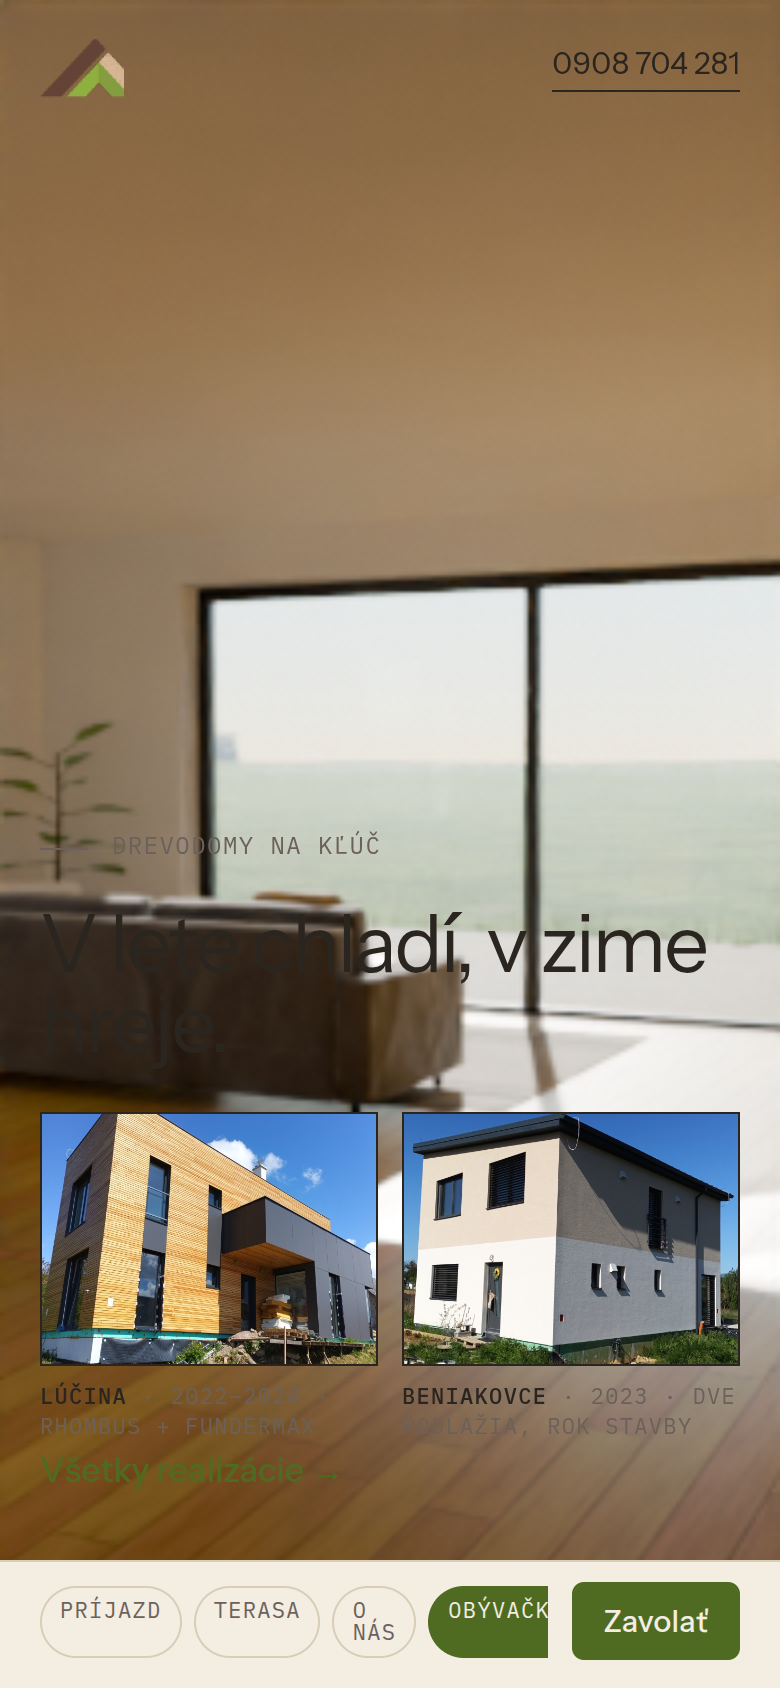
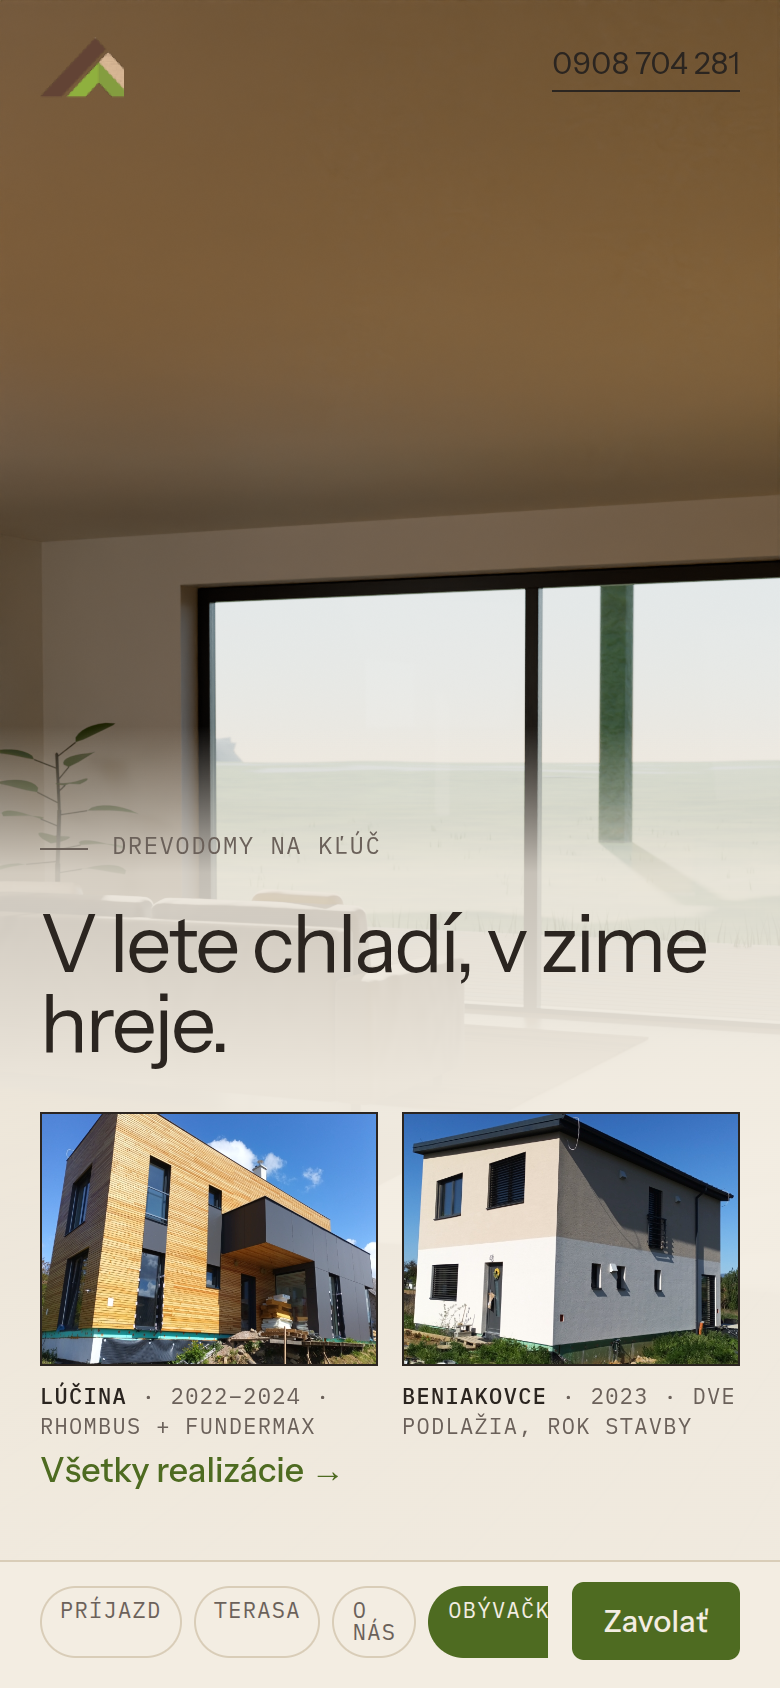
EcoDomček boards: the eight final plates, and the two technical boards fixed
Plates rendered at full board size (1440×900 / 780×1688), 384 samples,
512 for the interiors and the dusk act. Composited under the DOM layer with
`node clients/ecodomcek/boards/capture.mjs --render`.

Two boards failed the static-frame test on the first composite and are fixed:

- **04 Technológia** was unreadable: the sample stood on a grey concrete
  floor under a morning sky, and both the copy and the mono labels drowned
  in it. The sample now shares the dollhouse's studio — a warm gradient
  world, a bone floor — and the labels sit on paper chips. It is a spec
  sheet, not a building on a site.
- **07 Realizácie** carried two labels, one of which crossed the model and
  repeated the technology board. One label per board now, on a paper chip;
  the studio ground was warmed and lifted towards the page's own paper.

Also: annotations are clamped clear of the nav bar, and the mobile veil
starts higher so the eyebrow is not half-swallowed by its fade.

ART_DIRECTION §9.2 carries the static-frame verdict for all eight boards and
names the weakest surfaces rather than hiding them.

Validation: LOCAL — `npm run verify` green, headless renders and headless
captures only. No real device has seen these frames.

Claude-Session: https://claude.ai/code/session_01RoUfwoxLBTjqwMZz2oNVv8

diff --git a/clients/ecodomcek/boards/boards.css b/clients/ecodomcek/boards/boards.css
@@ -186,10 +186,25 @@ body[data-board="dusk"] .ann .dot, body[data-board="dusk"] .ann .line { backgrou
   content: ""; position: absolute; z-index: 0; inset: -44px -56px -44px -64px;
   background: linear-gradient(100deg, rgba(243,237,226,0) 0%, rgba(243,237,226,0.82) 16%, rgba(243,237,226,0.94) 46%, rgba(243,237,226,0.96) 100%);
 }
+[data-for="xray"] .cell::before {
+  content: ""; position: absolute; z-index: 0; inset: -44px -72px -44px -64px;
+  background: linear-gradient(280deg, rgba(243,237,226,0) 0%, rgba(243,237,226,0.80) 18%, rgba(243,237,226,0.93) 48%, rgba(243,237,226,0.96) 100%);
+}
+[data-for="xray"] .cell::after { display: none; }
+[data-for="xray"] .cell::after,
 [data-for="living"] .cell::after {
   content: ""; position: absolute; z-index: 0; left: -64px; top: -44px; bottom: -44px; width: 1px;
   background: linear-gradient(180deg, rgba(217,205,184,0) 0%, rgba(217,205,184,0.9) 22%, rgba(217,205,184,0.9) 78%, rgba(217,205,184,0) 100%);
 }
+
+/* The dollhouse and technology plates have no sky to write on: their labels get
+   the page's paper under them — the same veil device at label scale. The board
+   id lives on <body>, not on the section, because #annotations is its own host. */
+body[data-board="dollhouse"] .ann .lab,
+body[data-board="xray"] .ann .lab {
+  background: rgba(243,237,226,0.92); padding: 5px 9px 6px; margin: -5px 0 -6px;
+}
+body[data-board="xray"] .ann.col .lab { padding: 5px 9px 7px; }
 
 /* ---- mobile ---- */
 body[data-device="mobile"] { --edge: 20px; --gutter: 16px; }
@@ -215,8 +230,8 @@ body[data-device="mobile"] .cell .plates { margin-top: 24px; }
 body[data-device="mobile"] .cell .body { display: none; }
 body[data-device="mobile"] [data-for="hero"] .cell::before,
 body[data-device="mobile"] [data-for="living"] .cell::before {
-  content: ""; position: absolute; z-index: 0; inset: -30px -20px -140px -20px;
-  background: linear-gradient(180deg, rgba(243,237,226,0) 0%, rgba(243,237,226,0.88) 20%, rgba(243,237,226,0.97) 52%, rgba(243,237,226,0.99) 100%);
+  content: ""; position: absolute; z-index: 0; inset: -52px -20px -140px -20px;
+  background: linear-gradient(180deg, rgba(243,237,226,0) 0%, rgba(243,237,226,0.80) 14%, rgba(243,237,226,0.96) 34%, rgba(243,237,226,0.99) 100%);
 }
 body[data-device="mobile"] [data-for="living"] .cell::after { display: none; }
 body[data-device="mobile"] .cta-row { flex-direction: column; align-items: flex-start; gap: 12px; }

diff --git a/clients/ecodomcek/boards/scene.js b/clients/ecodomcek/boards/scene.js
@@ -69,6 +69,7 @@ if (mode === "render") {
     })
     for (const a of list.filter((a) => !a.col)) {
       const side = a.side === "auto" ? (a.x > w * 0.58 ? "left" : "right") : a.side
+      a.y = Math.max(a.y, device === "mobile" ? 148 : 96)  // never under the nav
       const el = document.createElement("div")
       el.className = `ann ${side}${a.signal ? " signal" : ""}`
       el.style.left = `${a.x}px`

diff --git a/clients/ecodomcek/cycles/spec.py b/clients/ecodomcek/cycles/spec.py
@@ -105,7 +105,10 @@ LIGHTS = {
     "table": {"elevation": 45, "rotation": 200, "intensity": 0.55, "world": 1.5, "interior": False},
     "dusk": {"elevation": -7, "rotation": 30, "intensity": 0.0, "world": 1.15, "interior": "all"},
 }
-BOARD_LIGHT = {"hero": "morning", "living": "interior", "xray": "morning", "dollhouse": "table", "dusk": "dusk"}
+# The x-ray sample is a spec sheet, not a building on a site: on the concrete
+# floor under a morning sky its plate came back mid-grey and the mono labels
+# and the copy were both unreadable on it. It shares the dollhouse's studio.
+BOARD_LIGHT = {"hero": "morning", "living": "interior", "xray": "table", "dollhouse": "table", "dusk": "dusk"}
 BOARD_SITE = {"hero": "lawn", "living": "lawn", "xray": "lawn", "dollhouse": "studio", "dusk": "lawn"}
 
 # ---- cameras (position, look-at, vertical fov°) ---------------------------
@@ -136,7 +139,7 @@ SHIFT = {
     ("dusk", "mobile"): 0.10,
 }
 SIZES = {"desktop": (1440, 900), "mobile": (780, 1688)}
-EXPOSURE = {"hero": -1.55, "living": -0.35, "xray": -3.25, "dollhouse": -1.85, "dusk": -0.35}
+EXPOSURE = {"hero": -1.55, "living": -0.35, "xray": -1.35, "dollhouse": -1.3, "dusk": -0.35}
 QUALITY = {
     "test": {"scale": 25, "samples": 32},
     "preview": {"scale": 50, "samples": 96},
@@ -152,7 +155,9 @@ def lens_for_fov(fov_deg: float, sensor_h: float = 24.0) -> float:
 # ---- annotation anchors (world coordinates) --------------------------------
 ANCHORS = {
     "hero": {"vzorovy": (-4.2, 5.2, 6.64)},
-    "dollhouse": {"vzorovy": (-4.2 + 1.2, 5.2, 6.64 + 3.2), "fasada": (4.0, 2.0, 1.6)},
+    # one label per board: the facade note crossed the model and repeats the
+    # technology board, so the dollhouse keeps only the concept disclosure
+    "dollhouse": {"vzorovy": (-4.2 + 1.2, 5.2, 6.64 + 3.2)},
 }
 DOLLHOUSE_ROOF = {"dz": 3.2, "dx": 1.2, "rot_y_deg": -3.0}
 

diff --git a/clients/ecodomcek/cycles/environment.py b/clients/ecodomcek/cycles/environment.py
@@ -993,7 +993,7 @@ def build_xray(materials):
 
     bm = bmesh.new()
     _box(bm, (x - 150, x + 150, cursor - 150, XRAY_Y_START + 150, -0.4, 0.0))
-    _obj("xray_floor", bm, coll, materials, "concrete")
+    _obj("xray_floor", bm, coll, materials, "studio_floor")
     print(f"[environment] x-ray stage ({len(spec.XRAY_LAYERS)} layers) in {time.time() - t0:.2f} s")
     return anchors
 

diff --git a/clients/ecodomcek/ART_DIRECTION.md b/clients/ecodomcek/ART_DIRECTION.md
@@ -249,6 +249,25 @@ Reference traceability for the new decisions, all from records read in full:
 | The paper veil behind copy that lands on the render | `aspelin-reitan`, `raus` | cream-on-cream layering as the depth device, never a drop shadow | a gradient of the page's own paper with a hairline where it starts, used on the living board and on mobile |
 | The dusk act | `exoape` | warm photographic dark, type over the world, never flat black | one board only; the house goes to silhouette, the windows carry 2700 K practicals, the contact panel is snow |
 
+Static-frame test on the eight composited boards (1440×900 / 780×1688,
+plates at 384 spp, interiors and dusk at 512):
+
+| Board | Reads as | Verdict |
+| --- | --- | --- |
+| 01 Príjazd desktop | headline on the sky, house in the right five columns, drive entering bottom-left, one concept label at the roofline, benefit band on the meadow | **passes** |
+| 01 Príjazd mobile | house above the horizon, copy on the paper veil over the meadow, call in the thumb zone | passes |
+| 03 Obývačka desktop | room left, copy on a paper veil right, sun on the oak floor, the deck and meadow visible through the glazing | passes |
+| 03 Obývačka mobile | sofa and glazing top, the sun patch as the copy field | passes |
+| 04 Technológia | seven layers on a bone ground, mono labels on paper chips cascading with leaders, one green on the load-bearing layer | **passes** — this is the board draft 1 failed twice |
+| 07 Realizácie | model as an object on a warm ground, roof lifted, one concept label, three real projects as plates | passes |
+| 08 Kontakt desktop/mobile | house in silhouette with warm rooms, snow panel, register line | **passes** |
+
+Weakest surfaces, named rather than hidden: the meadow is still the least
+convincing material in every exterior; the woodland band is a distant mass,
+not trees; the model is cleaner than any built house (no weathering, no
+dirt, no downpipe stains); and the interior's window view is a stop or two
+brighter than a photograph would hold.
+
 Not validated: every plate is a headless CPU render and every board is a
 headless Chromium capture. No real device has seen these frames. Class: LOCAL.
 
